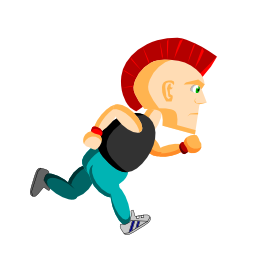
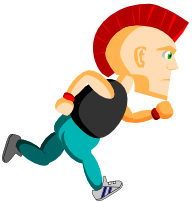
Assignment 6C: (Changed: My_level-01.png, Level.java, WorldController.java, Character.java, Fire.java, Ice.java, CameraHelper.java, Character.png, DesktopLauncher.java)

Changed region(s): [[0.0, 0.0, 1.0, 1.0], [0.4062, 0.6238, 0.4375, 0.6535]]

diff --git a/core/src/com/billyharrisongdx/game/game/objects/Character.java b/core/src/com/billyharrisongdx/game/game/objects/Character.java
@@ -1,3 +1,11 @@
+/**
+ * Author: Billy Harrison
+ *
+ * Date: 10/1/16
+ *
+ * Class: Game Design
+ */
+
 package com.billyharrisongdx.game.game.objects;
 
 import com.badlogic.gdx.Gdx ;
@@ -12,11 +20,10 @@ public class Character extends AbstractGameObject
 
 	/**
 	 * Set the minimun and maximum jumping times with and
-	 * without the feather power-up
+	 * without the fire power-up
 	 */
-	private final float JUMP_TIME_MAX = 0.3f ;
+	private final float JUMP_TIME_MAX = 0.6f ;
 	private final float JUMP_TIME_MIN = 0.1f ;
-	private final float JUMP_TIME_OFFSET_FLYING = JUMP_TIME_MAX - 0.018f ;
 
 	/**
 	 * enum for the possible movement directions
@@ -102,7 +109,6 @@ public class Character extends AbstractGameObject
 			case JUMP_FALLING: // Falling down after jump
 				if(jumpKeyPressed && hasFirePowerup)
 				{
-					timeJumping = JUMP_TIME_OFFSET_FLYING ;
 					jumpState = JUMP_STATE.JUMP_RISING ;
 				}
 				break ;
@@ -110,7 +116,7 @@ public class Character extends AbstractGameObject
 	}
 
 	/**
-	 * Used to activate feather power-up
+	 * Used to activate fire power-up
 	 */
 	public void setFirePowerup(boolean pickedUp)
 	{
@@ -118,6 +124,7 @@ public class Character extends AbstractGameObject
 		if(pickedUp)
 		{
 			timeLeftFirePowerup = Constants.ITEM_FIRE_POWERUP_DURATION ;
+			terminalVelocity.x = 6 ;
 		}
 	}
 
@@ -149,6 +156,7 @@ public class Character extends AbstractGameObject
                 // disable power-up
                 timeLeftFirePowerup = 0;
                 setFirePowerup(false);
+                terminalVelocity.x = 3 ;
             }
         }
     }
@@ -202,7 +210,7 @@ public class Character extends AbstractGameObject
 	{
 		TextureRegion reg = null ;
 
-		// Set special color when game object has a feather power-up
+		// Set special color when game object has a fire power-up
 		if(hasFirePowerup)
 		{
 			batch.setColor(1.0f, 0.8f, 0.0f, 1.0f) ;

diff --git a/core/src/com/billyharrisongdx/game/game/objects/Ice.java b/core/src/com/billyharrisongdx/game/game/objects/Ice.java
@@ -7,10 +7,10 @@ import com.billyharrisongdx.game.game.Assets ;
 public class Ice extends AbstractGameObject
 {
 	/**
-	 * Variables holding the ice texture region and
+	 * Variables holding the gold coin texture region and
 	 * its current collection status
 	 */
-	private TextureRegion regIce ;
+	private TextureRegion regGoldCoin ;
 
 	public boolean collected ;
 
@@ -20,14 +20,14 @@ public class Ice extends AbstractGameObject
 	}
 
 	/**
-	 * Sets dimension for the ice and its bounds and sets
+	 * Sets dimension for the coin and its bounds and sets
 	 * its texture region and that it is not collected
 	 */
 	private void init()
 	{
 		dimension.set(0.5f, 0.5f) ;
 
-		regIce = Assets.instance.ice.ice ;
+		regGoldCoin = Assets.instance.ice.ice ;
 
 		// Set bounding box for collision detection
 		bounds.set(0, 0, dimension.x, dimension.y) ;
@@ -36,21 +36,21 @@ public class Ice extends AbstractGameObject
 	}
 
 	/**
-	 * Draws the ice in the specified location
+	 * Draws the gold coin in the specified location
 	 */
 	public void render(SpriteBatch batch)
 	{
 		if(collected) return ;
 
 		TextureRegion reg = null ;
-		reg = regIce ;
+		reg = regGoldCoin ;
 		batch.draw(reg.getTexture(), position.x, position.y, origin.x, origin.y,
 				dimension.x, dimension.y, scale.x, scale.y, rotation, reg.getRegionX(),
 				reg.getRegionY(), reg.getRegionWidth(), reg.getRegionHeight(), false, false) ;
 	}
 
 	/**
-	 * Returns ice point value
+	 * Returns coin point value
 	 */
 	public int getScore()
 	{

diff --git a/core/src/com/billyharrisongdx/game/game/WorldController.java b/core/src/com/billyharrisongdx/game/game/WorldController.java
@@ -273,7 +273,7 @@ public class WorldController extends InputAdapter
 		r1.set(level.character.position.x, level.character.position.y,
 				level.character.bounds.width, level.character.bounds.height) ;
 
-		// Test for collision: Bunny Head <-> Ground
+		// Test for collision: Character <-> Ground
 		for(Ground ground : level.grounds)
 		{
 			r2.set(ground.position.x, ground.position.y, ground.bounds.width,
@@ -284,7 +284,7 @@ public class WorldController extends InputAdapter
 			// edge testing on ground
 		}
 
-		// Test collision: Bunny Head <-> Ice
+		// Test collision: Character <-> Ice
 		for(Ice ice : level.ice)
 		{
 			if(ice.collected) continue ;
@@ -295,7 +295,7 @@ public class WorldController extends InputAdapter
 			break ;
 		}
 
-		// Test collision: Bunny Head <-> Fire
+		// Test collision: Character <-> Fire
 		for(Fire fire : level.fire)
 		{
 			if(fire.collected) continue ;

diff --git a/core/src/com/billyharrisongdx/game/util/CameraHelper.java b/core/src/com/billyharrisongdx/game/util/CameraHelper.java
@@ -15,7 +15,6 @@ import com.billyharrisongdx.game.game.objects.AbstractGameObject ;
 
 public class CameraHelper
 {
-
 	private static final String TAG = CameraHelper.class.getName() ;
 
 	/**
@@ -23,7 +22,6 @@ public class CameraHelper
 	 */
 	private final float MAX_ZOOM_IN = 0.25f ;
 	private final float MAX_ZOOM_OUT = 10.0f ;
-
 	private Vector2 position ;
 	private float zoom ;
 	private AbstractGameObject target ;
@@ -46,7 +44,7 @@ public class CameraHelper
 			return ;
 
 		position.x = target.position.x + target.origin.x ;
-		position.y = target.position.y = target.origin.y ;
+		position.y = target.position.y + target.origin.y ;
 
 		// Prevent camera from moving down too far
 		position.y = Math.max(-1f, position.y) ;
@@ -136,16 +134,3 @@ public class CameraHelper
 		camera.update();
 	}
 }
-
-
-
-
-
-
-
-
-
-
-
-
-

diff --git a/desktop/src/com/billyharrisongdx/game/desktop/DesktopLauncher.java b/desktop/src/com/billyharrisongdx/game/desktop/DesktopLauncher.java
@@ -25,7 +25,7 @@ public class DesktopLauncher {
 		{
 			Settings settings = new Settings() ; // Create a set of settings for the texture packer
 			// Sets height and width of texture atlas
-			settings.maxWidth = 2048 ;        
+			settings.maxWidth = 2048 ;
 			settings.maxHeight = 2048 ;
 			settings.duplicatePadding = false ;
 			settings.debug = drawDebugOutline ;

diff --git a/core/src/com/billyharrisongdx/game/game/objects/Fire.java b/core/src/com/billyharrisongdx/game/game/objects/Fire.java
@@ -1,3 +1,10 @@
+/**
+ * Author: Billy Harrison
+ *
+ * Date: 10/1/16
+ *
+ * Class: Game Design
+ */
 package com.billyharrisongdx.game.game.objects;
 
 import com.badlogic.gdx.graphics.g2d.SpriteBatch ;

diff --git a/core/src/com/billyharrisongdx/game/game/Level.java b/core/src/com/billyharrisongdx/game/game/Level.java
@@ -1,3 +1,10 @@
+/**
+ * Author: Billy Harrison
+ *
+ * Date: 10/1/16
+ *
+ * Class: Game Design
+ */
 package com.billyharrisongdx.game.game;
 
 import com.badlogic.gdx.Gdx ;
